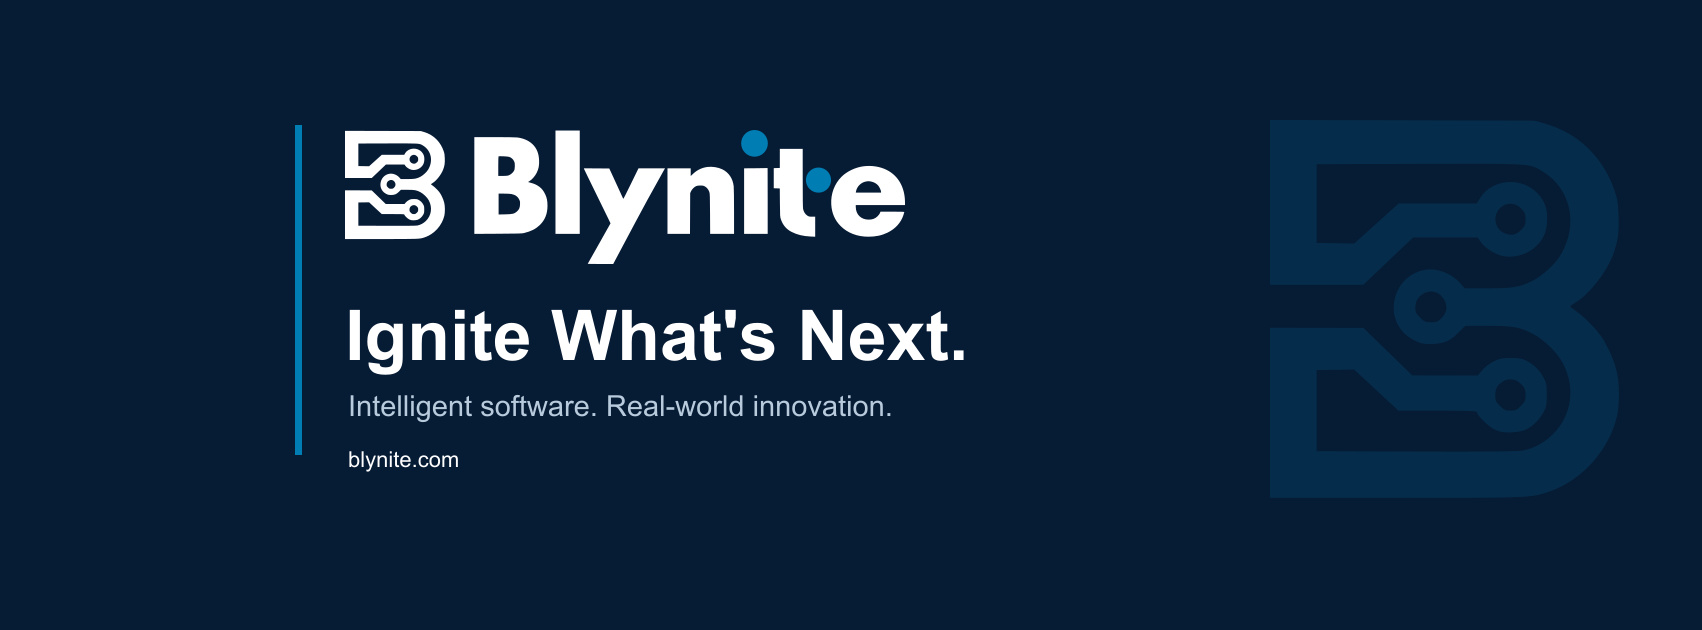
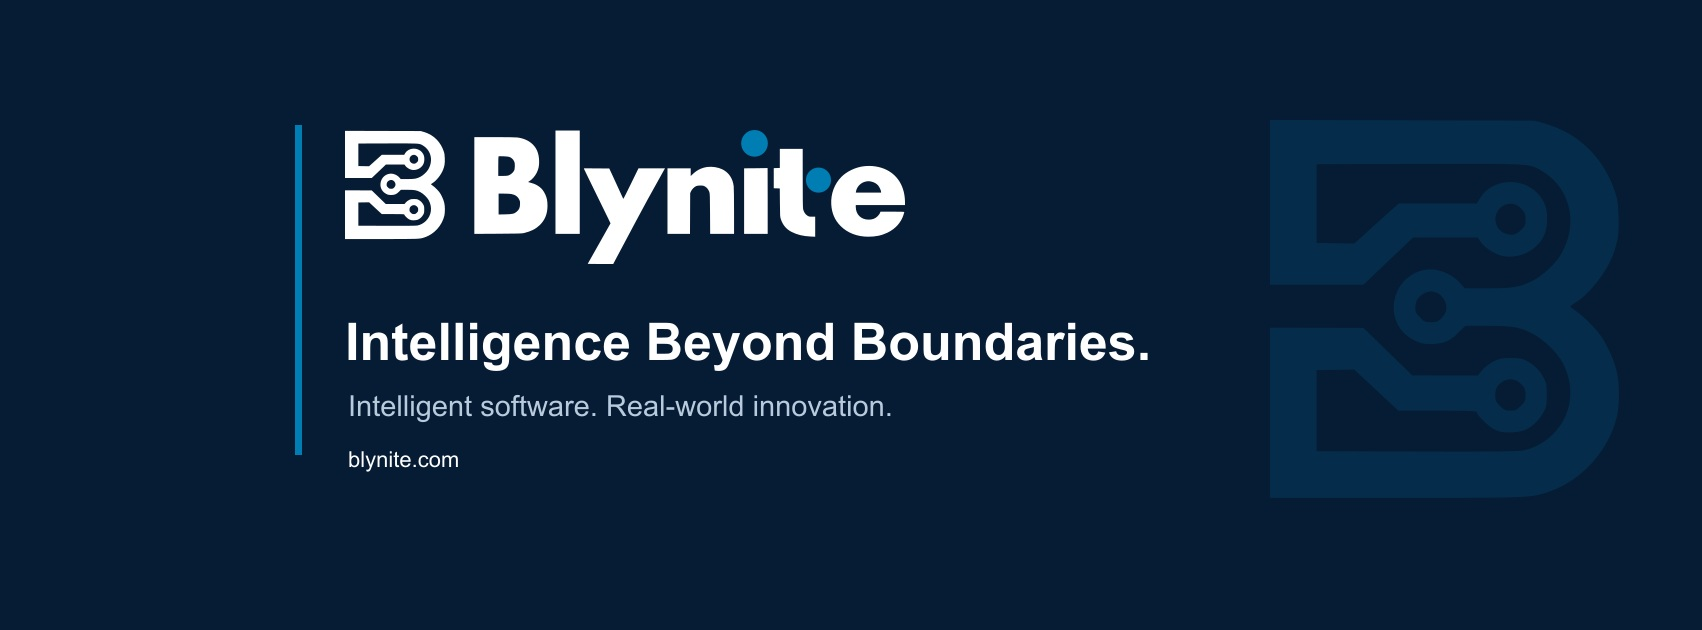
Update Blynite tagline to Intelligence Beyond Boundaries

Changed region(s): [[0.1868, 0.4825, 0.6851, 0.6032]]

diff --git a/src/app/manifest.ts b/src/app/manifest.ts
@@ -1,9 +1,10 @@
 import type { MetadataRoute } from "next";
+import { site } from "@/data/site";
 export default function manifest(): MetadataRoute.Manifest {
   return {
     name: "Blynite",
     short_name: "Blynite",
-    description: "Ignite What's Next.",
+    description: site.tagline,
     start_url: "/",
     display: "standalone",
     background_color: "#061B34",

diff --git a/src/data/site.ts b/src/data/site.ts
@@ -1,7 +1,7 @@
 export const site = {
   name: "Blynite",
   url: "https://blynite.com",
-  tagline: "Ignite What's Next.",
+  tagline: "Intelligence Beyond Boundaries.",
   description:
     "We design and build intelligent software, AI-powered solutions, and digital products that turn ambitious ideas into reality.",
 };

diff --git a/src/lib/metadata.ts b/src/lib/metadata.ts
@@ -22,7 +22,7 @@ export function pageMetadata(
           url: "/brand/social-cover.jpg",
           width: 1702,
           height: 630,
-          alt: "Blynite — Ignite What's Next.",
+          alt: `Blynite — ${site.tagline}`,
         },
       ],
     },
